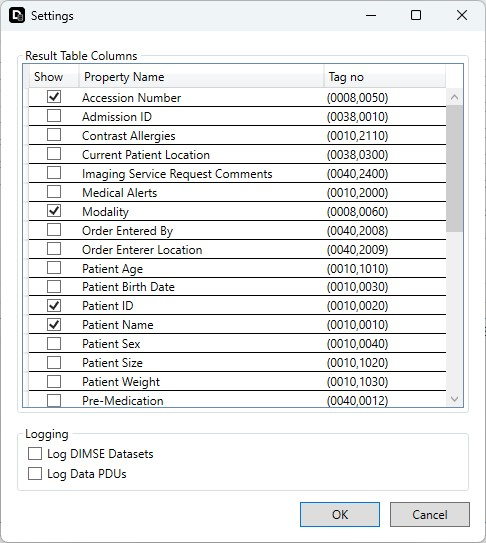
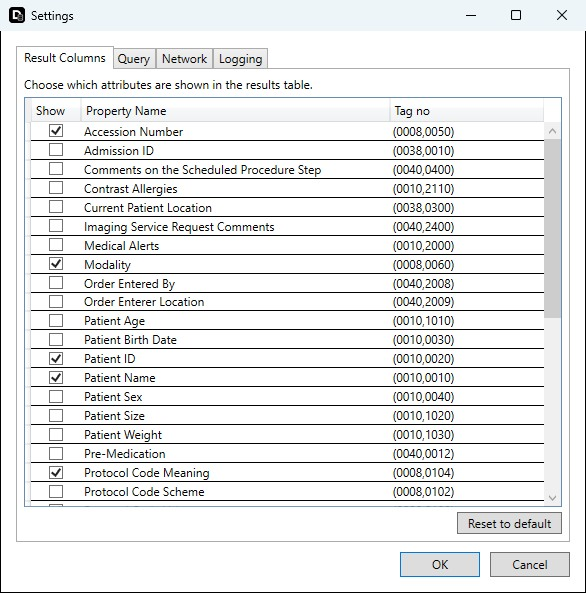
Update screenshots and installation docs for 1.4.0
- New screenshots of the main window, settings (Result Columns and Query tabs) and dataset details, using sample data
- README: describe the per-user MSI (installs to %LOCALAPPDATA%, no admin rights needed) and how to upgrade from older all-users installs
- Fix the relative path to the setup project in MWL4.sln so it loads in Visual Studio

diff --git a/README.md b/README.md
@@ -40,8 +40,19 @@ Built on the robust **Fellow Oak DICOM (fo-dicom)** library, this tool provides 
 * **Open Source:** Free to use, modify, and distribute under the MIT License.
 
 ## Screenshots
-![Application Screenshot](/screenshots/main.jpg)
-![Application Settings](/screenshots/settings.jpg)
+
+**Main window** — results of a worklist query, with a saved connection profile and an additional query key (SPS Status):
+
+![Main window with query results](/screenshots/main.jpg)
+
+**Dataset details** — double-click a row to see the full dataset returned by the server:
+
+![Dataset details window](/screenshots/details.jpg)
+
+**Settings** — choose the result columns and the additional query keys:
+
+![Settings, Result Columns tab](/screenshots/settings.jpg)
+![Settings, Query tab](/screenshots/settings-query.jpg)
 
 ##  Supported DICOM Tags
 
@@ -96,17 +107,21 @@ The application handles the following DICOM tags. You can configure which of the
 
 ## Installation
 
-You can choose between the Windows Installer or the Portable version.
+You can choose between the Windows Installer or the Portable version. Neither requires administrative privileges.
 
-### Option 1: Portable (Recommended - does not require administrative privileges)
-1. Download the **ZIP file** from the [latest release](../../releases/latest).
-2. Extract the files to a folder of your choice.
-3. Run `DMWLT4.exe`.
-
-### Option 2: Installer
+### Option 1: Installer
 1. Download the **MSI Installer** from the [latest release](../../releases/latest).
 2. Double-click the file to install the application.
 3. Launch **DICOM Modality Worklist Tester** from your Start Menu.
+
+The installer installs for the current user only, by default to `%LOCALAPPDATA%\DICOM Modality Worklist Tester`, and does not ask for administrator rights.
+
+> **Upgrading from 1.2 or earlier:** older installers installed for all users in Program Files. The new per-user installer cannot remove those, so uninstall the old version first (**Settings -> Apps -> Installed apps**). Removing the old version may require administrator rights.
+
+### Option 2: Portable
+1. Download the **ZIP file** from the [latest release](../../releases/latest).
+2. Extract the files to a folder of your choice.
+3. Run `DMWLT4.exe`.
 
 ### ⚠ Microsoft SmartScreen Warning
 Because this is an open-source tool and is not digitally signed with a paid certificate, you may see a **"Windows protected your PC"** warning (Microsoft Defender SmartScreen) when you try to run the application for the first time.
